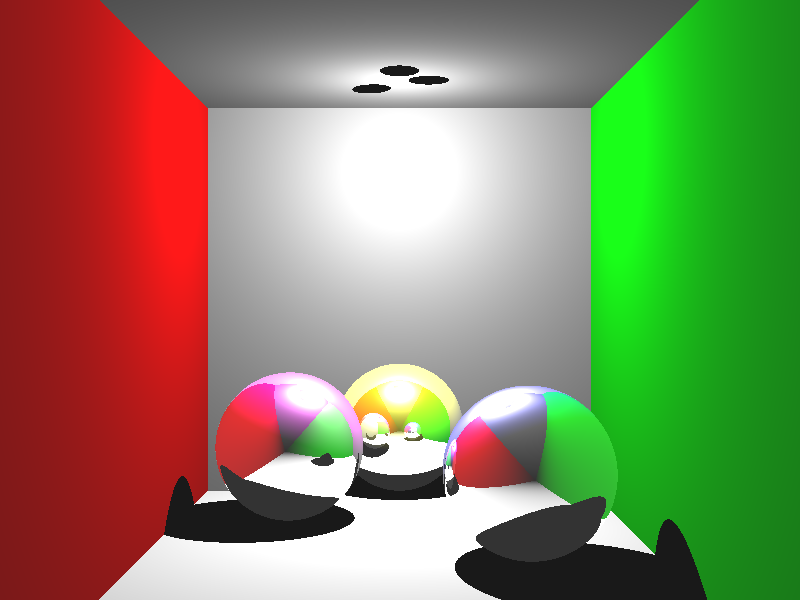
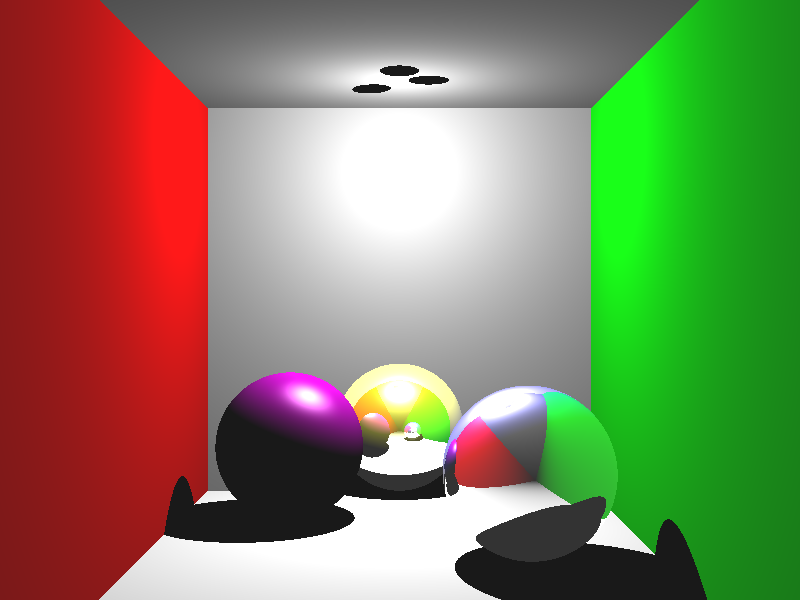
Prepare Refraction

Changed region(s): [[0.25, 0.6, 0.5, 0.87], [0.5312, 0.72, 0.5938, 0.81]]

diff --git a/VCG_Raytracer/src/raytracer/Intersection.java b/VCG_Raytracer/src/raytracer/Intersection.java
@@ -9,7 +9,8 @@ public class Intersection {
 
     private Vec3 mNormal;
     private Ray mInRay;
-    private Ray mOutRay;
+    private Ray mReflectionRay;
+    private Ray mRefractionRay;
 
     private Shape mShape;
     private float mDistance;
@@ -27,13 +28,37 @@ public class Intersection {
         mOutOfDistance = false;
     }
 
-    private void createOutRay() {
+    private void calculateReflectionRay() {
         Vec3 normalN = mNormal.normalize();
         Vec3 directN = mInRay.getDirection().negate().normalize();
         float angle = normalN.scalar(directN);
+
         Vec3 reflVec = normalN.multScalar(angle).multScalar(2f);
         reflVec = reflVec.sub(directN).normalize();
-        mOutRay = new Ray(mIntersectionPoint, reflVec, Float.MAX_VALUE);
+        mReflectionRay = new Ray(mIntersectionPoint, reflVec, Float.MAX_VALUE);
+    }
+
+    private void calculateRefractionRay() {
+        Vec3 normalN = mNormal.normalize();
+        Vec3 directN = mInRay.getDirection().negate().normalize();
+        float angle = normalN.scalar(directN);
+        float switchedMaterialCoeff = 1 / mShape.getMaterialCoeff();
+
+        float incidentAngle = calculateIncidentAngle(angle, switchedMaterialCoeff);
+        float transmissionAngle = calculateTransmissionAngle(angle, switchedMaterialCoeff);
+    }
+
+    private float calculateIncidentAngle(float angle, float switchedMaterialCoeff) {
+
+        return 0f;
+    }
+
+    private float calculateTransmissionAngle(float angle, float switchedMaterialCoeff) {
+        float secondPart = 1 - angle * angle;
+
+        float firstPart = switchedMaterialCoeff * switchedMaterialCoeff;
+
+        return (float) Math.sqrt( 1 - firstPart * secondPart );
     }
 
     public void setHit(boolean mHit) {
@@ -46,7 +71,6 @@ public class Intersection {
 
     public void setNormal(Vec3 mNormal) {
         this.mNormal = mNormal;
-        this.createOutRay();
     }
 
     public void setDistance(float dist){
@@ -76,8 +100,13 @@ public class Intersection {
         return mIntersectionPoint;
     }
 
-    public Ray getOutRay() {
-        return mOutRay;
+    public Ray getReflectionRay() {
+        this.calculateReflectionRay();
+        return mReflectionRay;
+    }
+
+    public Ray getRefractionRay() {
+        return mReflectionRay;
     }
 
     public Vec3 getNormal() {

diff --git a/VCG_Raytracer/src/scene/materials/Material.java b/VCG_Raytracer/src/scene/materials/Material.java
@@ -7,15 +7,25 @@ import utils.Vec3;
 
 public abstract class Material {
 
-    public static float GLASS = 1.0f;
-    public static float MIRROR = -1.0f;
-    public static float SILVER = -0.75f;
+    /* TRANSMISSION INDICES */
+    public static float DIAMOND = 2.417f;
+    public static float WATER = 2.00f;
+    public static float GLASS = 1.54f;
+    public static float AIR = 1.0003f;
+
+    /* REFLECTION INDICES */
+    public static float TOTAL_REFLECTION = 1.0f;
+    public static float MOST_REFLECTION = 0.75f;
+    public static float HALF_REFLECTION = 0.75f;
+    public static float NO_REFLECTION = 0f;
 
     protected RgbColor diffCoeff;
     protected RgbColor specCoeff;
 
-    protected float shininess;
-    protected float reflectivity;
+    protected float shininess = 0;
+
+    protected float fractionCoeff = 0;
+    protected float reflectionCoeff = 0;
 
     private String mType;
 
@@ -29,8 +39,8 @@ public abstract class Material {
         mType = type;
     }
 
-    public String getType(){
-        return mType;
+    protected void calculateMaterialCoeff(float fractionCoeff){
+        this.fractionCoeff = this.AIR / fractionCoeff;
     }
 
     public boolean isType(String type){
@@ -38,14 +48,21 @@ public abstract class Material {
     }
 
     public boolean isReflective() {
-        return this.reflectivity < 0;
+        return this.reflectionCoeff != 0;
     }
 
     public boolean isTransparent(){
-        return this.reflectivity > 0;
+        return this.fractionCoeff != 0;
     }
 
+    public String getType(){
+        return mType;
+    }
     public abstract RgbColor getColor(Light light, Vec3 normal, Vec3 vertexPos, Vec3 camPos);
+
+    public float getFractionCoeff() {
+        return this.fractionCoeff;
+    }
 
     protected float clampAngle(float angle){
         if(angle > 1f){
@@ -64,7 +81,7 @@ public abstract class Material {
         reflectN = reflectN.sub(lightVecN);
 
         float specAngle = reflectN.scalar(viewVecN);
-        float specFactor = (float) Math.pow(specAngle, shininess);
+        float specFactor = (float) Math.pow(specAngle, this.shininess);
 
         return this.specCoeff
                 .multRGB(lightColor)

diff --git a/VCG_Raytracer/src/Main.java b/VCG_Raytracer/src/Main.java
@@ -23,7 +23,6 @@
 
 ~~~~~~~~~~~~~~~~~~~~~~~~~~~~~~~~~~~~~~~~~~~~~~~~~~~~~~~~~~~~~*/
 
-import com.interactivemesh.jfx.importer.Importer;
 import raytracer.Raytracer;
 import scene.materials.LambertMaterial;
 import scene.materials.Material;
@@ -31,7 +30,6 @@ import scene.materials.PhongMaterial;
 import scene.shapes.Plane;
 import ui.Window;
 import scene.Scene;
-import utils.Log;
 import utils.RgbColor;
 import utils.Vec3;
 
@@ -99,9 +97,9 @@ public class Main {
     private static void setupObjects(Scene renderScene) {
         float sphereRadius = 1;
         // Materials: Ambient Color, Diffuse Coeeff, Specular Coeff, Shininess, Material
-        Material sphereMaterial1 = new PhongMaterial(RgbColor.MAGENTA, RgbColor.WHITE, 10, Material.MIRROR);
-        Material sphereMaterial2 = new PhongMaterial(RgbColor.BLUE, RgbColor.WHITE, 10, Material.MIRROR);
-        Material sphereMaterial3 = new PhongMaterial(RgbColor.YELLOW, RgbColor.WHITE, 10, Material.MIRROR);
+        Material sphereMaterial1 = new PhongMaterial(RgbColor.MAGENTA, RgbColor.WHITE, PhongMaterial.SHINY, Material.NO_REFLECTION, Material.GLASS);
+        Material sphereMaterial2 = new PhongMaterial(RgbColor.BLUE, RgbColor.WHITE, PhongMaterial.SHINY, Material.TOTAL_REFLECTION, Material.GLASS);
+        Material sphereMaterial3 = new PhongMaterial(RgbColor.YELLOW, RgbColor.WHITE, PhongMaterial.SHINY, Material.TOTAL_REFLECTION, Material.GLASS);
 
         renderScene.createSphere(new Vec3(-DIMENSION/2f, -DIMENSION + sphereRadius, -DIMENSION/3f+3), sphereMaterial1, sphereRadius);
         renderScene.createSphere(new Vec3(DIMENSION/2f, -DIMENSION + sphereRadius, DIMENSION/3f+3), sphereMaterial2, sphereRadius);

diff --git a/VCG_Raytracer/src/raytracer/Raytracer.java b/VCG_Raytracer/src/raytracer/Raytracer.java
@@ -89,14 +89,14 @@ public class Raytracer {
                 return outColor;
             }
             // Further recursions through objects, if the recursion is not finished and object is not diffuse
-            else if(intersection.getShape().isReflective()){
+            if(intersection.getShape().isReflective()){
                 recursionCounter = recursionCounter - 1;
-                outColor = traceRay( recursionCounter, intersection.getOutRay(), outColor, intersection );
+                outColor = traceRay( recursionCounter, intersection.getReflectionRay(), outColor, intersection );
             }
-            else if(intersection.getShape().isTransparent()){
-                recursionCounter = recursionCounter - 1;
-                outColor = traceRay( recursionCounter, intersection.getOutRay(), outColor, intersection );
-            }
+//            if(intersection.getShape().isTransparent()){
+//                recursionCounter = recursionCounter - 1;
+//                outColor = traceRay( recursionCounter, intersection.getReflectionRay(), outColor, intersection );
+//            }
             // Calculate the color of every object, that was hit in between, depending on recursive level
             outColor = outColor.add( shade( intersection ) );
         }

diff --git a/VCG_Raytracer/src/scene/materials/PhongMaterial.java b/VCG_Raytracer/src/scene/materials/PhongMaterial.java
@@ -1,17 +1,21 @@
 package scene.materials;
 
 import scene.lights.Light;
-import utils.Log;
 import utils.RgbColor;
 import utils.Vec3;
 
 public class PhongMaterial extends Material {
 
+    public static float SHINY = 10;
+    public static float VERY_SHINY = 100;
+    public static float NOT_SHINY = 0;
 
-    public PhongMaterial(RgbColor diffuseCoefficient, RgbColor specularCoefficient, float shininess, float reflectivity) {
+    public PhongMaterial(RgbColor diffuseCoefficient, RgbColor specularCoefficient, float shininess, float reflectivity, float fractionCoeff) {
         super(diffuseCoefficient, specularCoefficient, shininess, "PHONG");
 
-        this.reflectivity = reflectivity;
+        this.reflectionCoeff = reflectivity;
+
+        this.calculateMaterialCoeff(fractionCoeff);
     }
 
     @Override

diff --git a/VCG_Raytracer/src/scene/materials/BlinnMaterial.java b/VCG_Raytracer/src/scene/materials/BlinnMaterial.java
@@ -6,8 +6,10 @@ import utils.RgbColor;
 import utils.Vec3;
 
 public class BlinnMaterial extends Material {
-    public BlinnMaterial(RgbColor diffuseCoefficient, RgbColor specularCoefficient, float shininess, int type) {
+    public BlinnMaterial(RgbColor diffuseCoefficient, RgbColor specularCoefficient, float shininess, float reflectivity) {
         super(diffuseCoefficient, specularCoefficient, shininess, "BLINN");
+
+        this.calculateMaterialCoeff(reflectivity);
     }
 
     @Override

diff --git a/VCG_Raytracer/src/scene/shapes/Plane.java b/VCG_Raytracer/src/scene/shapes/Plane.java
@@ -70,7 +70,6 @@ public class Plane extends Shape {
         // Count only as hit, if the distance of the ray is higher than the distance to the intersection point
         intersectionTest.setHit(ray.getDistance() > t);
         intersectionTest.setIncoming(true);
-        //intersectionTest.setOutOfDistance(ray.getDistance() < t);
 
         return intersectionTest;
     }

diff --git a/VCG_Raytracer/src/scene/shapes/Shape.java b/VCG_Raytracer/src/scene/shapes/Shape.java
@@ -38,6 +38,10 @@ public abstract class Shape extends SceneObject {
         return new RgbColor(0,0,0);
     }
 
+    public float getMaterialCoeff(){
+        return this.material.getFractionCoeff();
+    }
+
     public boolean isDiffuse(){
         return this.material.isType("LAMBERT");
     }
